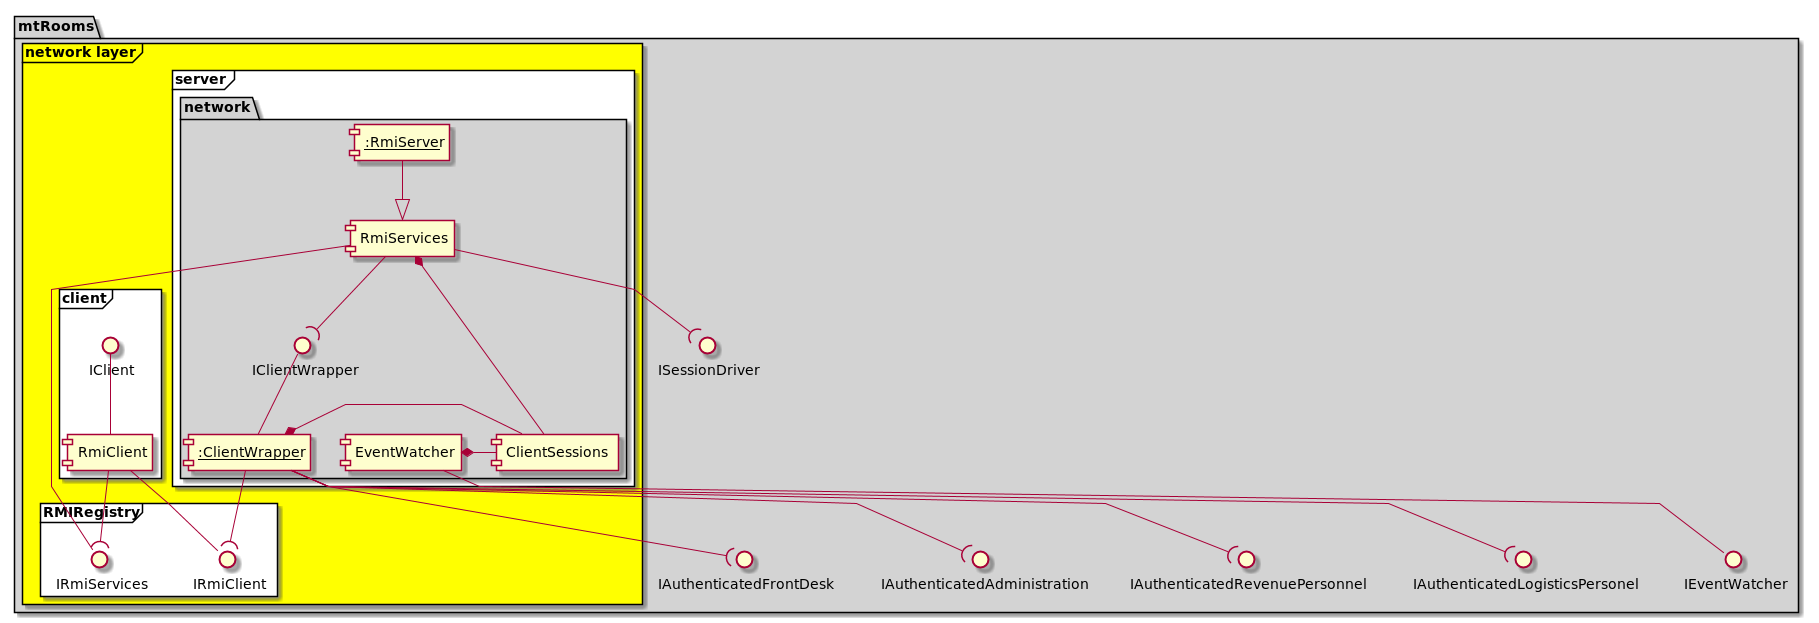
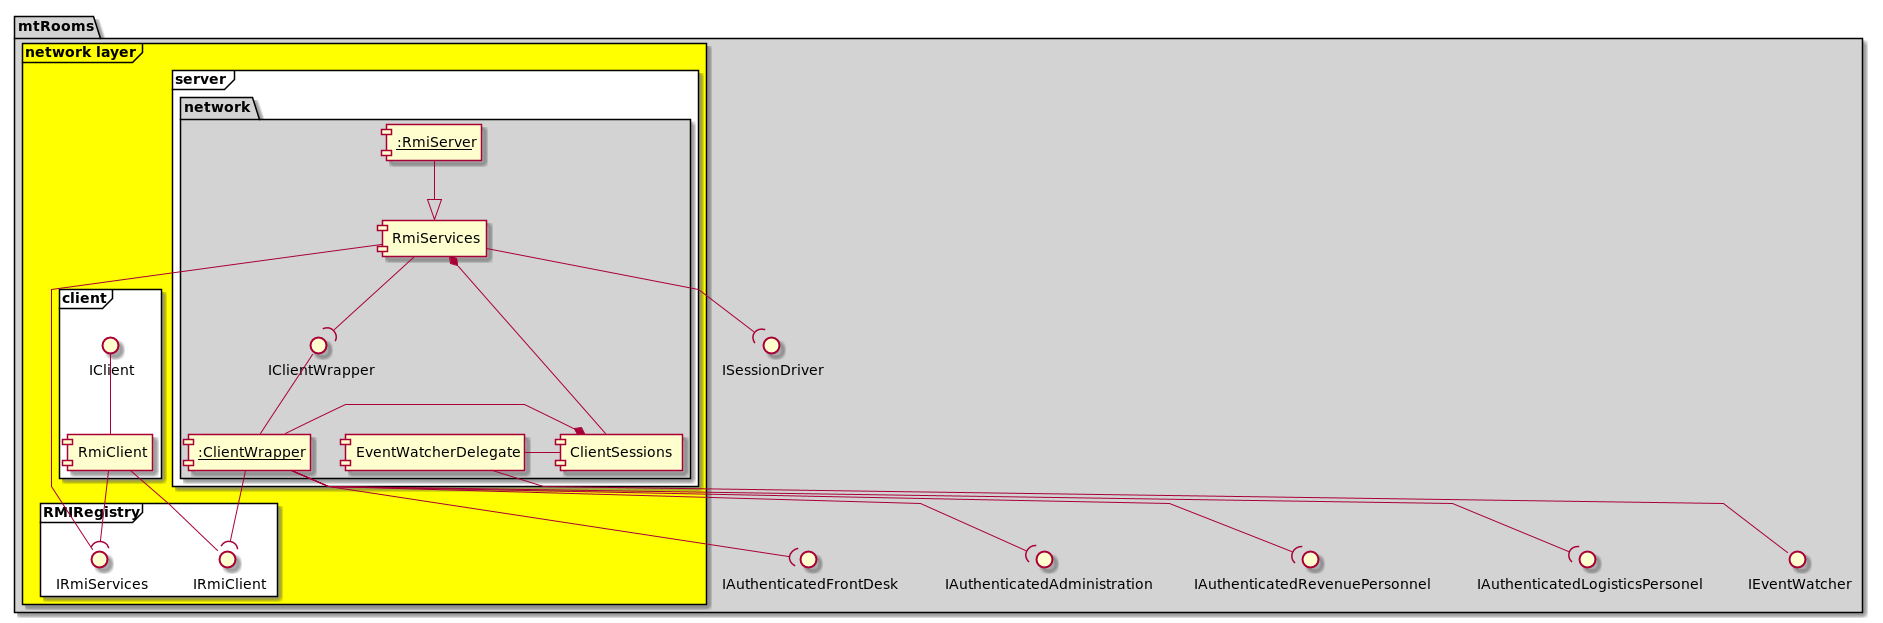
[network] Added some logger instantiations on the client side; [log_config.cfg] Added one for the frontend runs and edited the backend to only show msg and output to console only; [uml] Small corrections.

diff --git a/frontend/src/main/java/bbk_beam/mtRooms/ui/MtRoomsGUI.java b/frontend/src/main/java/bbk_beam/mtRooms/ui/MtRoomsGUI.java
@@ -3,7 +3,9 @@ package bbk_beam.mtRooms.ui;
 import bbk_beam.mtRooms.admin.authentication.Token;
 import bbk_beam.mtRooms.network.IRmiClient;
 import bbk_beam.mtRooms.network.IRmiServices;
+import bbk_beam.mtRooms.network.RmiServer;
 import bbk_beam.mtRooms.ui.network.RmiClient;
+import eadjlib.logger.Logger;
 import javafx.application.Application;
 import javafx.scene.Scene;
 import javafx.scene.layout.BorderPane;
@@ -12,6 +14,9 @@ import javafx.stage.Stage;
 import java.rmi.Naming;
 
 public class MtRoomsGUI extends Application {
+    private final Logger log = Logger.getLoggerInstance(MtRoomsGUI.class.getName());
+    static IRmiServices remoteServices;
+    static IRmiClient client;
 
     @Override
     public void start(Stage primaryStage) throws Exception {
@@ -29,12 +34,15 @@ public class MtRoomsGUI extends Application {
     }
 
     public static void main(String[] args) {
+        final Logger log = Logger.getLoggerInstance(MtRoomsGUI.class.getName());
         try {
-            IRmiServices remoteService = (IRmiServices) Naming.lookup("//localhost:9999/RmiServices");
-            IRmiClient client = new RmiClient();
+            remoteServices = (IRmiServices) Naming.lookup("//localhost:9999/RmiServices");
+            client = new RmiClient();
             //Testing...
-            Token token = remoteService.login(client, "root", "letmein");
-            remoteService.logout(client.getToken());
+            remoteServices.login(client, "root", "letmein");
+            if( remoteServices.hasAdministrativeAccess(client.getToken()) )
+                log.log("Client [", client.getToken(), "] has administrative rights.");
+            remoteServices.logout(client.getToken());
             //End Testing
             launch(args);
         } catch (Exception e) {

diff --git a/frontend/src/main/java/bbk_beam/mtRooms/ui/network/RmiClient.java b/frontend/src/main/java/bbk_beam/mtRooms/ui/network/RmiClient.java
@@ -2,11 +2,13 @@ package bbk_beam.mtRooms.ui.network;
 
 import bbk_beam.mtRooms.admin.authentication.Token;
 import bbk_beam.mtRooms.network.IRmiClient;
+import eadjlib.logger.Logger;
 
 import java.rmi.RemoteException;
 import java.rmi.server.UnicastRemoteObject;
 
 public class RmiClient extends UnicastRemoteObject implements IRmiClient {
+    private final Logger log = Logger.getLoggerInstance(RmiClient.class.getName());
     private Token token = null;
 
     /**
